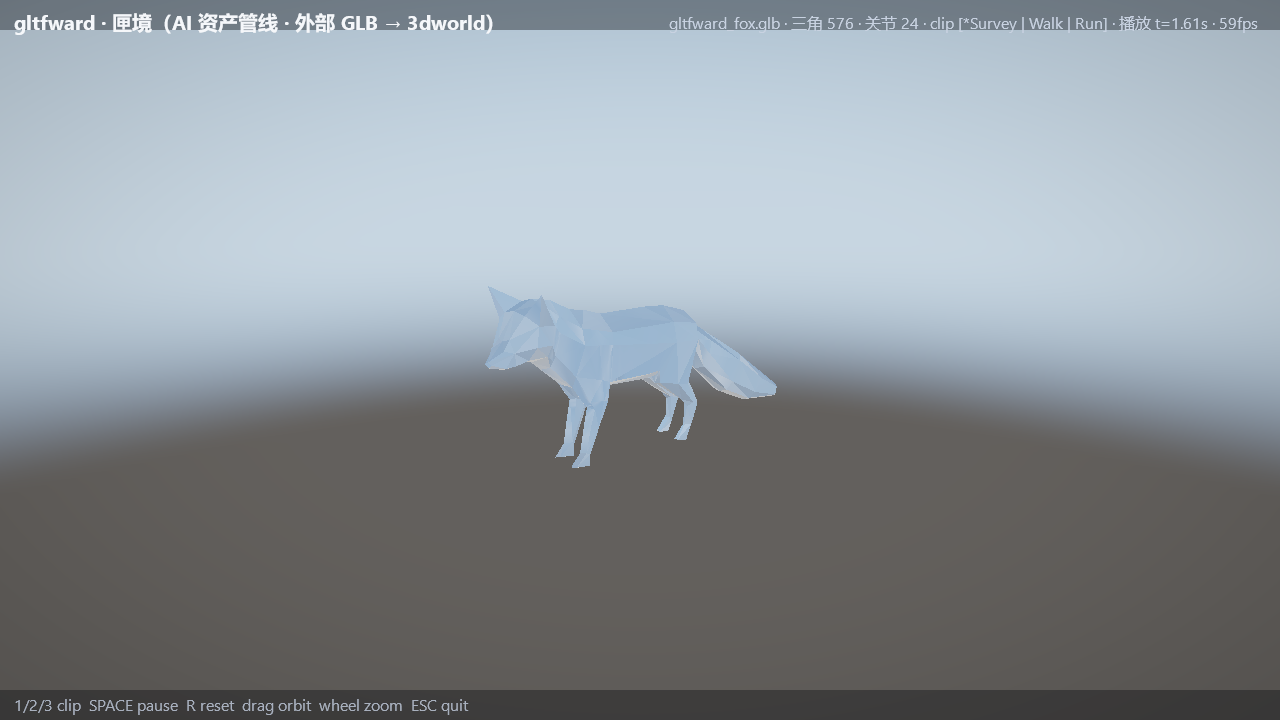
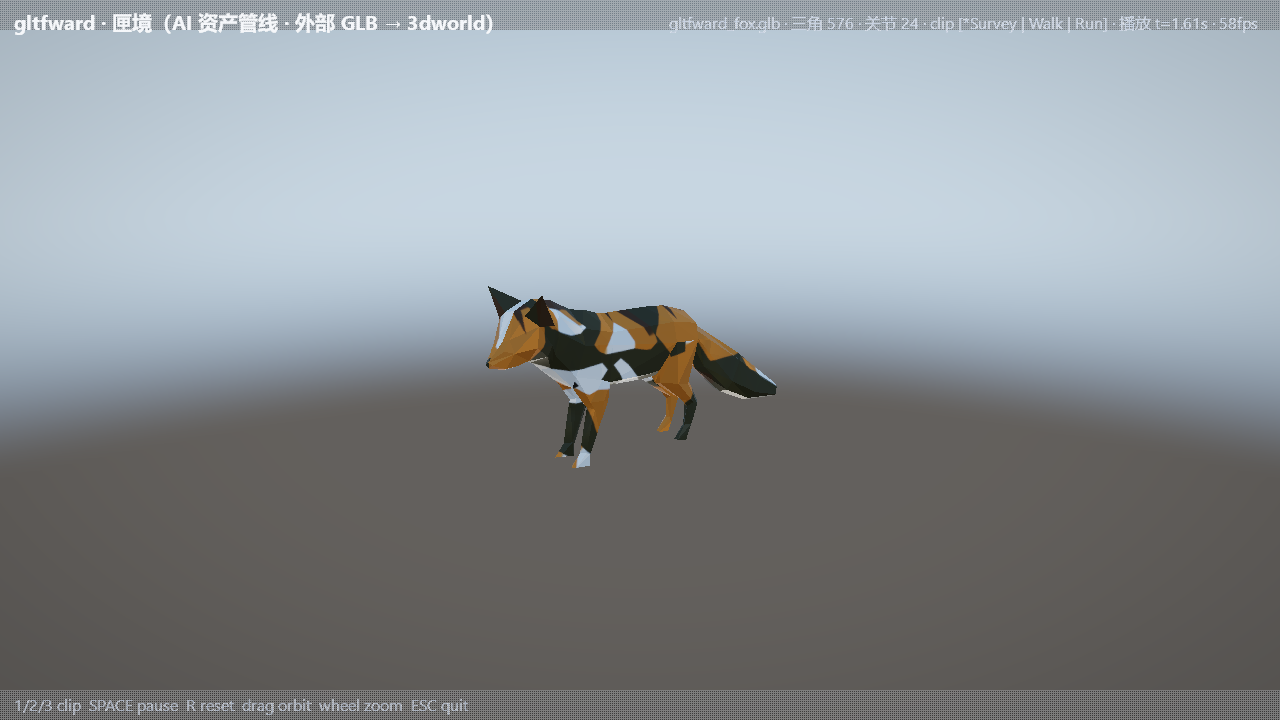
texward v1：贴图全链路 demo + gltfward 升级为带贴图材质
- examples/texward.py（新）：三球三条落地路径——文件通道（PNG 落盘→解码器→
  sRGB 上传）/ 内存通道（from_pixels + 法线 scale 烘入）/ ORM 单图三通道
  （AO(R)+粗糙(G)+金属(B) 同时绑 mr+occlusion，UE 省槽做法）；AO 分级开关
  （occlusion_strength 1.0/0.35）、调试通道 D、账务 HUD（纹素密度 / BC7 含 mip
  显存 / padding / ORM 通道值）
- examples/gltfward.py：材质改走 texture.material_from_gltf（真加载 GLB 贴图槽：
  baseColor sRGB、MR/Occlusion/Normal 线性、normalScale/occlusionStrength）；
  无贴图资产保留旧口径的金属度钳制。Khronos Fox 的 baseColorTexture 首次显示
- 剧照：texward_01..03 新增；gltfward_01..04 更新为新基准（贴图生效前后对照）
- 登记：examples/README 行 + "67 项"；主 README 67 个演示
- 验收：verify_demos --only texward,gltfward → ALL_DEMOS_OK；
  material_lab/posterward 回归 ALL_DEMOS_OK
- 依赖：引擎 0.7.5（engine/texture.py 由本仓 texward 驱动落地）

diff --git a/examples/texward.py b/examples/texward.py
@@ -1,0 +1,237 @@
+# -*- coding: utf-8 -*-
+"""《织造 / Texward》—— 贴图全链路：文件解码 / sRGB 分色空间 / ORM 打包 / AO 分级。
+
+`proctex` 解决的是"**生成**像素"（程序化图案）。本 demo 演示另一半：
+像素如何**正确落地**到 GPU 并被 PBR 消费——正是《游戏贴图全链路实操手册》
+里最容易静默出错的那几段：
+
+1. **文件通道**（左球）：proctex 产物先落盘 PNG，再用 ``texture.from_image_file``
+   走真实解码器回来，按 ``role='base'`` 以 **sRGB 内部格式**上传（GL_SRGB8_ALPHA8，
+   采样时硬件解码）。误标成线性会把颜色整体洗亮——"看起来还行"的经典错误。
+2. **内存通道**（中球）：``texture.from_pixels`` 直接上传 proctex 字节，
+   法线按 ``role='normal'`` 以线性格式上传，``normalScale`` 烘进像素。
+3. **ORM 单图三通道**（右球）：把 AO（R）/ 粗糙（G）/ 金属（B）打包成**一张**
+   ORM 贴图，同时绑到 ``mr_tex`` 与 ``occlusion_tex``——这正是 UE/glTF 的省槽
+   做法；通道位置由 ``texture.unpack_packed`` 逐像素核对（HUD 实时显示）。
+
+另外演示两条手册口径的修正：
+- **AO 只衰减间接光**，且镜面 IBL 用 ``mix(1, ao, 0.4)`` 弱化（全量压镜面会在
+  缝隙里出现死黑）——A 键在 ``occlusion_strength=1.0 / 0.35`` 间切换可对照；
+- **法线 mip 重归一化**：`from_pixels(role='normal')` 上传前做一次 XY 缩放 +
+  归一化（规范顺序：先缩放后归一化）。
+
+用法::
+
+    python examples/texward.py
+    python examples/texward.py --smoke 3
+    python examples/texward.py --shot
+
+按键：1/2/3 选材质（HUD 显示其账务）  N 法线开关  A AO 强度  D 调试通道
+      SPACE 暂停  拖动旋转  滚轮缩放  ESC 退出
+
+开销账务（HUD 实时）：纹素密度 px/m、RGBA8 与 BC7 的含 mip 显存、padding 推荐值。
+"""
+from __future__ import annotations
+
+import math
+import os
+import tempfile
+
+import pyglet
+from pyglet.math import Vec3
+
+from world3d.engine.app import EngineApp, run
+from world3d.engine.camera import OrbitCamera
+from world3d.engine.env import LightEnvironment
+from world3d.engine.geometry import plane, sphere
+from world3d.engine.material import Material
+from world3d.engine.mesh import Mesh
+from world3d.engine import proctex
+from world3d.engine import texture as T
+from world3d.engine.renderer import Renderer
+from world3d.engine.scene import Scene
+from world3d.engine.shaders import get
+
+TITLE = 'texward · 织造（贴图全链路：文件 / sRGB / ORM 打包 / AO 分级）'
+HELP = ('1/2/3 material  N normal  A ao-strength  D debug  SPACE pause  '
+        'drag orbit  wheel zoom  ESC quit')
+SHOTS = ((4.0, 'docs/texward_01.png'),
+         (10.0, 'docs/texward_02.png'),
+         (16.0, 'docs/texward_03.png'))
+
+#: (proctex 图案, 标签, 落地方式)
+SPECS = (
+    ('marble', '大理石 · 文件通道(sRGB)', 'file'),
+    ('brushed', '拉丝金属 · 内存通道(线性)', 'mem'),
+    ('wood_planks', '木板 · ORM 单图三通道', 'orm'),
+)
+
+TEX_SIZE = 256
+SPHERE_R = 0.9
+
+
+class TexwardApp(EngineApp):
+    TITLE = TITLE
+    HELP = HELP
+    SHOTS = SHOTS
+
+    # ------------------------------------------------------------ 构建 --
+    def setup(self):
+        w, h = self.window.width, self.window.height
+        self.env = LightEnvironment(
+            sun_dir=(0.35, 0.85, 0.30), sun_color=(1.0, 0.94, 0.84),
+            sun_intensity=3.2, ibl_intensity=0.95,
+            sky_zenith=(0.10, 0.14, 0.26), sky_horizon=(0.34, 0.37, 0.44),
+            sky_ground=(0.10, 0.10, 0.10)).bake()
+        self.renderer = Renderer(w, h, environment=self.env)
+        self.scene = Scene(name='texward', environment=self.env)
+        pbr = get('pbr')
+
+        ground = Mesh(plane(12.0, 6.0, 1, y=0.0), pbr,
+                      Material('ground', (0.34, 0.33, 0.31), 0.0, 0.55))
+        self.scene.add_mesh(ground, name='ground')
+
+        # 三只球：三条贴图落地路径
+        self.mats = []
+        self.info = []
+        for i, (pattern, label, mode) in enumerate(SPECS):
+            mat, meta = self._build_material(pattern, mode, seed=i + 1)
+            self.mats.append(mat)
+            self.info.append((label, mode, meta))
+            m = Mesh(sphere(SPHERE_R, segments=40, rings=26), pbr, mat)
+            self.scene.add_mesh(m, name=f'sphere_{pattern}',
+                                translation=(-2.4 + i * 2.4, SPHERE_R, 0.0))
+
+        # 一盏暖点光做侧面补光（IBL 之外给贴图一点可读的高光）
+        self.renderer.point_lights = [((3.5, 4.0, 4.5), (1.3, 1.05, 0.8))]
+
+        self.camera = OrbitCamera(target=(0.0, 0.9, 0.0), yaw=28.0, pitch=12.0,
+                                  dist=8.6, dist_range=(4.0, 16.0), fov=45.0)
+        self.normal_on = True
+        self._saved_normals = [m.normal_tex for m in self.mats]
+        self.ao_strength = 1.0
+        self.debug = 0
+        self.selected = 0
+        self.scene.update()             # 静态变换也要刷一次世界矩阵（否则全叠在原点）
+
+    def _build_material(self, pattern, mode, seed):
+        """proctex 图案 → Material（贴图按 role 上传；ORM 走单图三通道）。"""
+        pat = proctex.PATTERNS[pattern](size=TEX_SIZE, seed=seed)
+        size = pat['size']
+        if mode == 'file':
+            # 落盘 → 真实解码器 → sRGB 上传（文件通道）
+            path = os.path.join(tempfile.gettempdir(), f'texward_{pattern}_base.png')
+            pyglet.image.ImageData(size, size, 'RGBA', pat['base']).save(path)
+            base = T.from_image_file(path, role='base')
+            mr = T.from_pixels(size, size, pat['mr'], role='mr')
+            occ = self._ao_texture(pat)
+            meta = f'file:{os.path.basename(path)}'
+        elif mode == 'mem':
+            base = T.from_pixels(size, size, pat['base'], role='base')
+            mr = T.from_pixels(size, size, pat['mr'], role='mr')
+            occ = self._ao_texture(pat)
+            meta = 'from_pixels(sRGB)'
+        else:
+            # ORM：AO(R) 从 height 派生 / 粗糙(G) 与金属(B) 取自 glTF MR 图
+            orm = self._pack_orm(pat)
+            base = T.from_pixels(size, size, pat['base'], role='base')
+            mr = T.from_pixels(size, size, orm, role='orm')
+            occ = mr                       # 同一张图同时作 MR 与 Occlusion
+            meta = 'one ORM map → mr+occlusion'
+        normal = T.from_pixels(size, size, pat['normal'], role='normal')
+        m = Material(name=pattern, base_color=(1.0, 1.0, 1.0),
+                     metallic=1.0, roughness=1.0,
+                     base_tex=base, mr_tex=mr, normal_tex=normal,
+                     occlusion_tex=occ)
+        return m, meta
+
+    @staticmethod
+    def _ao_texture(pat):
+        """由高度场派生 AO（凹处更暗）：255 - 高度的高频部分。"""
+        size = pat['size']
+        hmap = pat['height']
+        mx = max(hmap) or 1
+        ao = bytearray(size * size * 4)
+        for i in range(size * size):
+            v = 255 - int(255 * (hmap[i] / mx) ** 0.6 * 0.55)
+            ao[i * 4:i * 4 + 4] = bytes((v, v, v, 255))
+        return T.from_pixels(size, size, bytes(ao), role='occlusion')
+
+    @staticmethod
+    def _pack_orm(pat):
+        """AO(R)+粗糙(G)+金属(B) 单图三通道（UE ORM 口径）。"""
+        size = pat['size']
+        mr, hmap = pat['mr'], pat['height']
+        mx = max(hmap) or 1
+        out = bytearray(size * size * 4)
+        for i in range(size * size):
+            ao = 255 - int(255 * (hmap[i] / mx) ** 0.6 * 0.55)
+            out[i * 4 + 0] = ao
+            out[i * 4 + 1] = mr[i * 4 + 1]      # G = roughness（glTF MR 同位置）
+            out[i * 4 + 2] = mr[i * 4 + 2]      # B = metallic
+            out[i * 4 + 3] = 255
+        return bytes(out)
+
+    # ------------------------------------------------------------ 每帧 --
+    def update(self, dt):
+        if self.paused:
+            return
+        self.camera.advance(dt * 0.25)          # 慢速环绕
+        self.scene.update()
+
+    def render(self):
+        aspect = self.window.width / max(1, self.window.height)
+        # uDebugMode 是 program 级 uniform：必须在 renderer 取用之前设好
+        self.renderer.program('pbr')['uDebugMode'] = self.debug
+        self.renderer.render(self.camera, self.scene, aspect=aspect,
+                             window=self.window)
+
+    # ------------------------------------------------------------ 交互 --
+    def on_key(self, symbol, modifiers):
+        k = pyglet.window.key
+        if symbol in (k._1, k._2, k._3):
+            self.selected = symbol - k._1
+        elif symbol == k.N:
+            self.normal_on = not self.normal_on
+            if self.normal_on:
+                for m, saved in zip(self.mats, self._saved_normals):
+                    m.normal_tex = saved
+            else:
+                # Material 有 __slots__，不能在实例上挂临时属性——存回 App
+                self._saved_normals = [m.normal_tex for m in self.mats]
+                for m in self.mats:
+                    m.normal_tex = None
+        elif symbol == k.A:
+            self.ao_strength = 0.35 if self.ao_strength > 0.9 else 1.0
+            for m in self.mats:
+                m.occlusion_strength = self.ao_strength
+        elif symbol == k.D:
+            self.debug = (self.debug + 1) % 6
+        else:
+            return pyglet.event.EVENT_UNHANDLED
+        return None
+
+    def on_mouse_drag(self, x, y, dx, dy, buttons, modifiers):
+        self.camera.orbit(dx, dy)
+
+    def on_mouse_scroll(self, x, y, scroll_x, scroll_y):
+        self.camera.zoom(scroll_y)
+
+    # ------------------------------------------------------------ HUD --
+    def status_text(self):
+        label, mode, meta = self.info[self.selected]
+        pat = proctex.PATTERNS[SPECS[self.selected][0]](size=32, seed=self.selected + 1)
+        packed = T.unpack_packed(self._pack_orm(pat) if mode == 'orm'
+                                 else pat['mr'], 'orm')
+        bc7 = T.estimate_bytes(TEX_SIZE, TEX_SIZE, 'bc7') / 1e6
+        dens = T.texel_density(TEX_SIZE, 2 * SPHERE_R)      # 球直径 1.8 m 的代尺
+        dbg = ('final', 'albedo', 'normal', 'ibl-spec', 'direct', 'ibl-amb')[self.debug]
+        # HUD 标题在左、状态在右，过长会压上去——只留最关键的四个数
+        return (f'{SPECS[self.selected][2]} · {dens:.0f}px/m · BC7 {bc7:.2f}MB · '
+                f'AO {packed["ao"]:.2f} R{packed["roughness"]:.2f} '
+                f'M{packed["metallic"]:.2f} · ×{self.ao_strength:.2f} · '
+                f'{"N" if self.normal_on else "-"}{dbg[0]} · {self.fps:.0f}fps')
+
+
+if __name__ == '__main__':
+    run(TexwardApp)

diff --git a/examples/gltfward.py b/examples/gltfward.py
@@ -122,23 +122,29 @@ class GltfwardApp(EngineApp):
 
     # ------------------------------------------------------------ 材质 --
     def _material(self, mat_idx):
-        """gltf.material() 的 PBR 参数叠到预设克隆上（引擎不加载贴图槽）。
+        """glTF 材质 → 引擎 Material（**含贴图槽**，0.7.5 起）。
 
-        资产没有贴图时 metallic=1 会渲染成白镜面，故钳到低金属度、中粗糙度，
-        保证"无贴图也好看"。
+        走 ``texture.material_from_gltf``：baseColor 按 sRGB 上传、MR/Occlusion/
+        Normal 按线性上传，``normalTexture.scale`` / ``occlusionTexture.strength``
+        一并带过来。无贴图资产沿用旧口径的金属度钳制（metallic=1 无贴图会渲染
+        成白镜面）。
         """
         if mat_idx in self._mats:
             return self._mats[mat_idx]
-        m = PRESETS['emerald_light'].clone(name=f'gltfward_m{mat_idx}')
-        m.emissive = (0.0, 0.0, 0.0)
-        src = self.gltf.material(mat_idx)
-        m.base_color = src.base_color
-        m.metallic = min(src.metallic, 0.2)
-        m.roughness = max(src.roughness, 0.45)
-        m.alpha = src.alpha
-        m.alpha_mode = src.alpha_mode
-        m.alpha_cutoff = src.alpha_cutoff
-        m.double_sided = src.double_sided
+        from world3d.engine.texture import material_from_gltf
+        try:
+            m = material_from_gltf(self.gltf, mat_idx)
+            m.name = f'gltfward_m{mat_idx}'
+        except Exception as exc:                        # noqa: BLE001
+            print(f'[gltfward] texture load skipped: {type(exc).__name__}: {exc}')
+            m = PRESETS['emerald_light'].clone(name=f'gltfward_m{mat_idx}')
+            m.emissive = (0.0, 0.0, 0.0)
+            src = self.gltf.material(mat_idx)
+            m.base_color = src.base_color
+        if m.base_tex is None and m.mr_tex is None:
+            # 无贴图：压金属度、抬粗糙度，保证"无贴图也好看"（旧口径）
+            m.metallic = min(m.metallic, 0.2)
+            m.roughness = max(m.roughness, 0.45)
         self._mats[mat_idx] = m
         return m
 

diff --git a/examples/README.md b/examples/README.md
@@ -111,7 +111,9 @@ python scripts\verify_demos.py --only boids,water  只验指定 demo
 | `brogueward.py` | 游戏 | **《渊境 / Brogueward》**（用引擎复刻 Brogue——"最接近原版 Rogue 的现代传统类 Rogue"）：3D 方块地牢爬行，**26 层完整闭环**（26 层取 Amulet of Yendor 回地表才胜利）；物品驱动成长（无经验等级：血药/力药/生命药 + 附魔卷轴=技能点）、走进即交互（走进取物/下楼/攻击）、对角禁穿墙角、FOV 记忆三态渲染（火把衰减可见 / 记忆暗紫 / 未知纯黑）、饥饿压制、怪物周期刷新（清不空一层）、3 种陷阱 + 毒气扩散（元胞扩散场）+ 火焰蔓延（点燃草地/烧穿门板）+ 水格减速、dragon/warden 远程、23 种物品 10 怪全程序化（音效 numpy 合成 16 种）。**后置清单五件套已补齐**：①门（1 宽咽喉点关门——挡视野、bump 开启、可烧毁）与机关宝藏室 vault（整间封门+守卫+稀有战利品+地板金染）；②魅惑药剂+魅惑盟友 AI（倒戈 40 回合、自动接敌、到期反水）；③武器攻击模式（矛 reach 隔位突刺 / 战斧 sweep 横扫全部正交邻敌）；④法杖（充能制、自动索敌：火焰点燃/闪电链跳/迟缓，命中才扣充能、耗尽碎裂）+ 戒指（被动：再生/潜行缩警觉半径/防护）；⑤录像回放（`--flag record` 记账成 JSON，`--flag replay=PATH` 按 DEMO_STEP 复演并**对账终局逐位一致**——演示 AI 用独立 `ai_rng` 流、游戏状态只由动作消耗 `rng`，复演才可能闭合）。机制参考 BrogueCE（AGPLv3）与官方 wiki，**未复制代码与数据表**（独立实现，数值重定）；消费 logic.dungeon / **logic.fov（本作新增反哺引擎，0.6.0 发版，视野/惊醒走引擎件+直线遮挡复检）** / pathing_core A* / engine.audio.SfxPlayer；渲染为自建 unlit 顶点色管线（引擎 Mesh 不走顶点色，FOV 每格变色需要）；`--flag seed=N` 固定种子、`--flag play` 关闭演示 AI | `brogueward_01/02/03.png` |
 | `crystalward.py` | 48s | **《晶极 / Crystalward》**（晶体的极致色彩与形态，联网调研驱动）：全屏片元 SDF raymarch + **按波长积分的光谱渲染**（Wyman 对 CIE 1931 CMF 的分段高斯拟合 → XYZ→sRGB，不是调色板插值）——8 种晶习（立方 / 八面 / 菱形十二面体 / 六方柱+双锥头 / 板状燕尾双晶 / 针状放射晶簇 / **铋漏斗晶** / 扩散限制枝晶）× 8 类致色机理（Cr³⁺ 晶体场红宝石↔祖母绿 / Fe-Ti 电荷迁移 / F 心色心加热褪色 / **Bi₂O₃ 氧化膜薄膜干涉 `Δ=2nd·cosθ`** / **欧泊 Bragg–Snell 变彩** / 钻石 Cauchy 色散火彩 / 多色性双折射 / UV 光致发光）；Beer-Lambert 的光程 `L` 由**晶体内部二次步进**实测而非拍脑袋常数，色散让每个波长独立 `refract` 出射，底部可见光谱尺用同一套 CIE 转换把颜色模型自证出来；8 幕自动演出，`1~8` / `Q,E` 可任意组合"同形态不同机理"对照；**能力本体已反哺引擎仓** `siwpan/3dworld` 的 `world3d/engine/spectrum.py`（CPU 黄金参考）与 `spectral_glsl.py`（可注入 GLSL 片段），本演示按仓惯例保持自包含快照，四组核心 GLSL 函数与引擎逐字同式同常数（由引擎仓 `test_spectrum` 钉住）；不直接 import 是为了不让本仓 venv 的 PyPI 发行版与未发版模块分叉。调研来源、公式与许可记账见 `docs/crystalward_调研与致色机理.md` | `crystalward_01..05.png` |
 | `posterward.py` | 24s | **《谪仙 / Posterward》**（复古未来主义动态海报，联网调研驱动，**引擎能力拼装**）：初版是自包含全屏片元 shader，v2 起改为直接消费 3dworld **0.7.4** 的三条引擎能力——① `engine/sdf2d_glsl`（胶囊 SDF / smin / 阿基米德螺线带 / 边缘带 / 分层着色 `shadeLayer`，与 CPU 版 `engine/sdf2d.py` 同式同常数，shader 不再手抄公式）；② **匣境通道** `engine.gltf.GLTF`（`scripts/make_posterward_glb.py` 程序化生成 `assets/posterward_ornaments.glb` 三件金饰：环 / 绸带背环 / 玉璧，`GLTF.load → build_scene_ex → Mesh` + `PRESETS['gold']` + `LightEnvironment` 墨色天穹 + 一盏暖点光，环绕仙女缓旋）；③ `engine.fonts.resolve_cjk_font` 真字题签（竖排「谪仙」，初版的抽象墨点已删）。海报本体：分层 2D SDF 拟人（俯冲、广袖飘裙、发髻飘发，smin 关节）+ 螺线带祥云（`|r − b·(θ+2πk)|` 最近圈）+ slat sun 日轮（近晕逐通道色散）+ 飘带 + 厚涂后处理（fbm 笔触角 / 鬃毛脊线 / 亮度分档）+ 版式（双线边框 / 朱印 / 暗角 / 颗粒）。光照三教训钉在 CPU/GLSL 双侧：①rim 用 `1−dot(n,L)` 会让整个背光面命中（要"朝光 × 近剪影"双条件）；②边缘带反转 smoothstep 会糊满内部（从内侧 `smoothstep(−0.055,−0.006,d)` 收紧）；③强逆光必须留底光项否则剪影全黑（沿 crystalward 的独立二次验证）。制作中还挖出并修掉引擎相机两处地雷（`OrbitCamera.position` 恒为基类默认 `(0,2,8)` → 已改属性委托 `eye`；`yaw=0` 的相机在 +X 轴不是 +Z）。bench median 57 fps @720p（含 5152 三角 PBR 层） | `posterward_01..03.png` |
-> 上表 66 项与 `examples/*.py`（不含 `_harness.py` 兼容层）一一对应，也是
+| `texward.py` | 24s | **《织造 / Texward》**（贴图全链路，手册驱动）：`proctex` 管"生成"、`engine.texture`（0.7.5 新增）管"正确落地"——① **文件通道**（左球）：程序纹理先落盘 PNG 再经 `from_image_file` 走真实解码器，按 `role='base'` 以 **sRGB 内部格式**（GL_SRGB8_ALPHA8）上传，采样即硬件解码；② **内存通道**（中球）：`from_pixels` 上传，法线按线性格式 + `normalScale` 烘入（规范顺序：先缩放 XY 再归一化）；③ **ORM 单图三通道**（右球）：AO(R)+粗糙(G)+金属(B) 打一张图同时绑 `mr_tex` 与`occlusion_tex`（UE 省槽做法），通道值由 `unpack_packed` 逐像素核对并在 HUD 实时显示；另演示 **AO 分级**（漫反射全量、镜面 IBL `mix(1,ao,0.4)`——旧版 `(diffuse+spec)*ao` 会在缝隙里压出死黑）与账务 HUD（纹素密度 px/m、RGBA8/BC7 含 mip 显存、padding 推荐值）。1/2/3 选材质、N 法线、A AO 强度、D 调试通道 | `texward_01..03.png` |
+
+> 上表 67 项与 `examples/*.py`（不含 `_harness.py` 兼容层）一一对应，也是
 > `scripts/verify_demos.py` 逐项冒烟的对象；唯一不参与截图阶段的是
 > `scene_viewer.py`——它由 `--file` 驱动、没有固定剧照时刻。
 

diff --git a/README.md b/README.md
@@ -10,7 +10,7 @@
 > 仓库：<https://gitee.com/siwpan/3dworld-demos> ｜ 许可：MIT（见 [LICENSE](LICENSE)）
 > 引擎本体在独立仓 [siwpan/3dworld](https://gitee.com/siwpan/3dworld)（PyPI 包名 `3dworld`）。
 
-本仓是 **3dworld 三维引擎的演示程序集**：66 个单文件演示 + 两条主线演出入口
+本仓是 **3dworld 三维引擎的演示程序集**：67 个单文件演示 + 两条主线演出入口
 （48 秒五幕演出 / 150 秒六幕走廊漫游）+ 成片录制 / exe 打包 / 批量验收工具。
 
 2026-10-19 从引擎仓剥离：**演示所代表的能力全部保留在引擎内**（`world3d.logic` /
